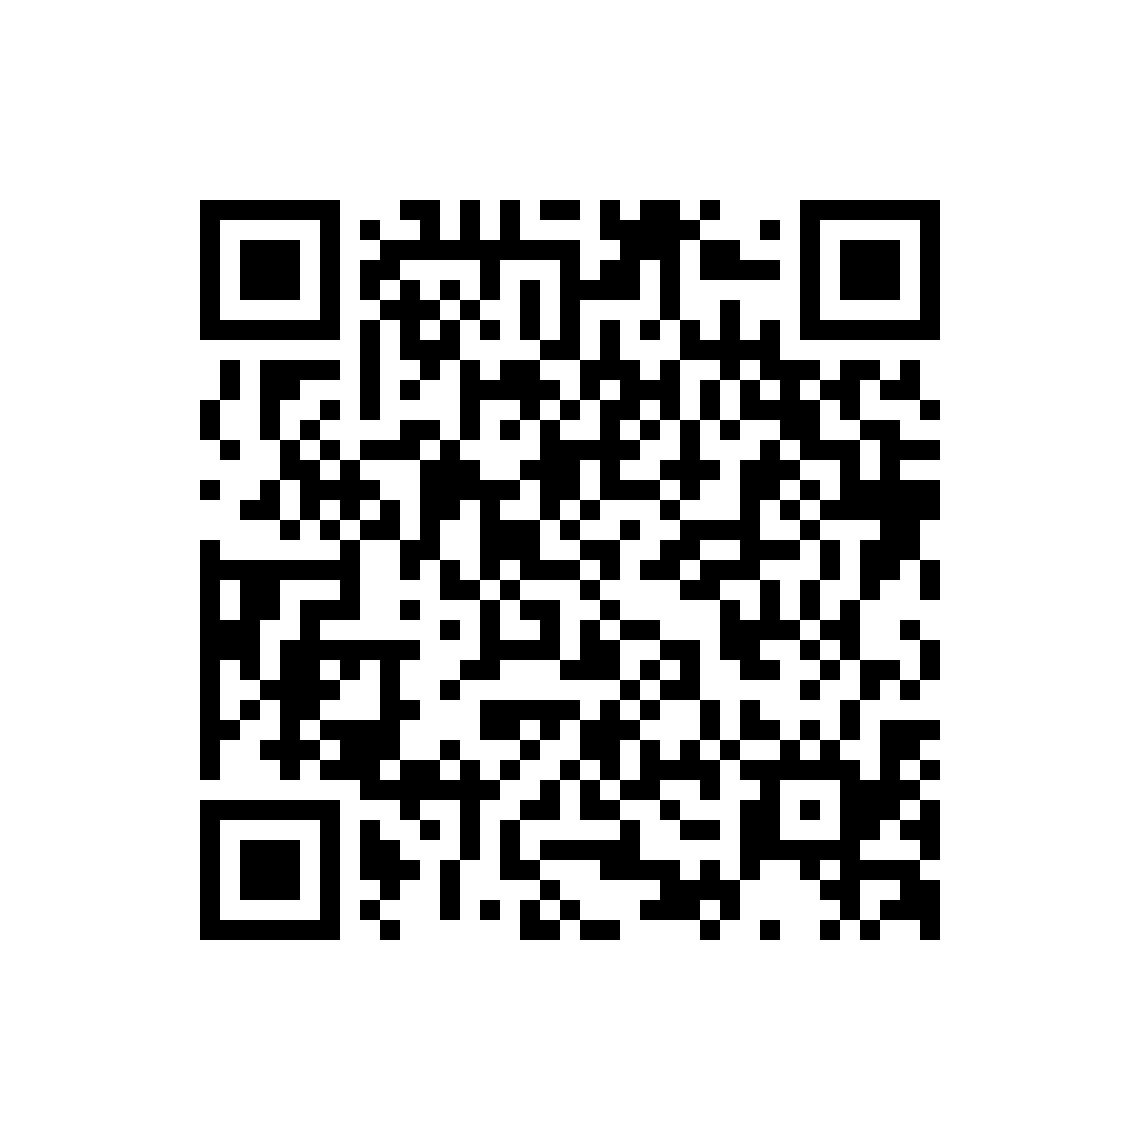
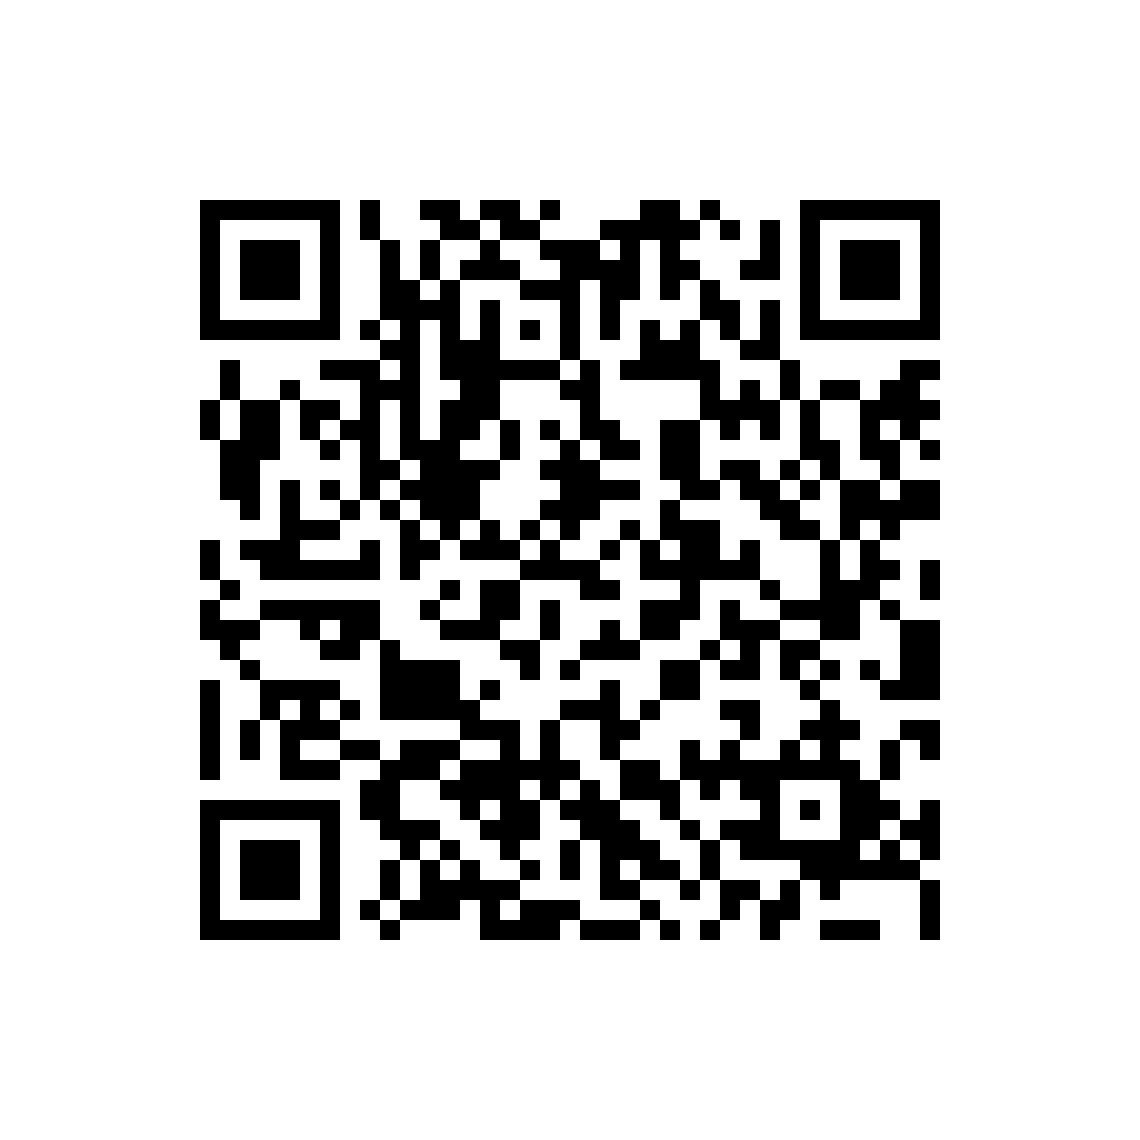
更新

Changed region(s): [[0.1535, 0.1535, 0.8289, 0.8289], [0.7368, 0.7368, 0.8289, 0.8289], [0.7061, 0.7368, 0.7368, 0.7675]]

diff --git a/cod22bo7.html b/cod22bo7.html
@@ -33,7 +33,7 @@ h1{font-size:26px;margin-bottom:8px}
 <p>简介：经典COD黑色行动系列新作，紧张刺激的单人剧情战役，丰富多人对战模式，硬核现代射击体验。</p>
 </div>
 <div class="dl-group">
-<button class="dl-btn baidu" onclick="openModal('img/cod22bo7/baidu_qr.jpg')">百度网盘 提取码：dpxq</button>
+<button class="dl-btn baidu" onclick="openModal('img/cod22bo7/baidu_qr.jpg')">百度网盘 提取码：n3tx</button>
 <button class="dl-btn quark" onclick="openModal('img/cod22bo7/quark_qr.jpg')">夸克网盘</button>
 </div>
 <div class="modal" id="qrModal">
